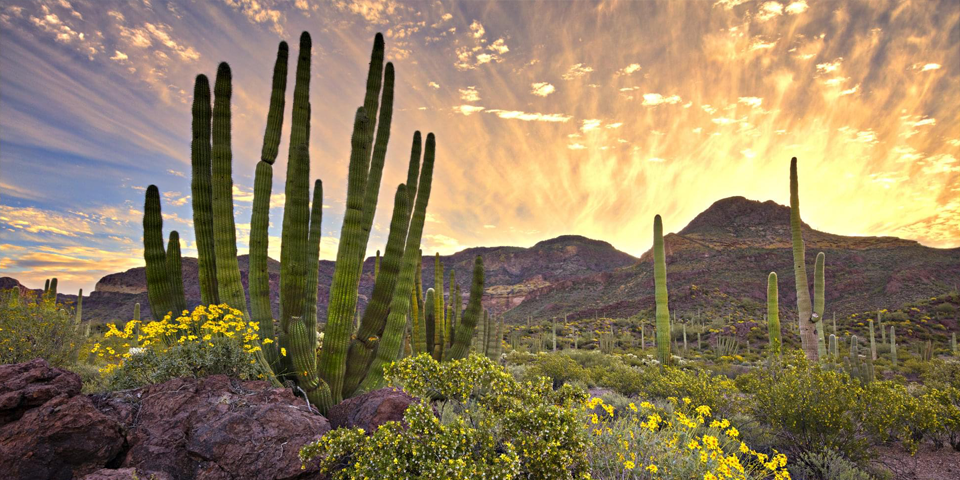
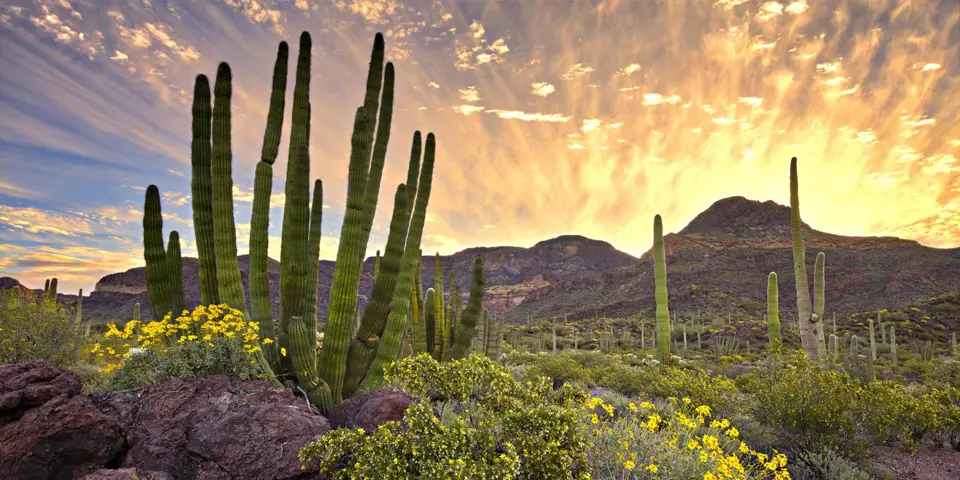
updates

diff --git a/chamber/index.html b/chamber/index.html
@@ -78,7 +78,7 @@
         <section class="event">
             <h2>Local Events</h2>          
             <h3 >Museo de la Penitenciaría de Sonora</h3>
-            <img src="images/peni-ad.jpg" width= "300" alt="Visita el museo"><br>
+            <img src="images/peni-ad.webp" width= "150" alt="Visita el museo"><br>
             <a href="#">more info...</a> 
 
            
